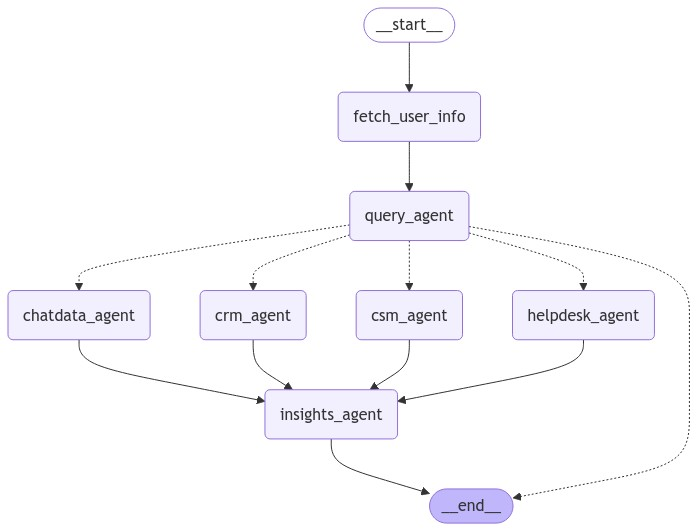
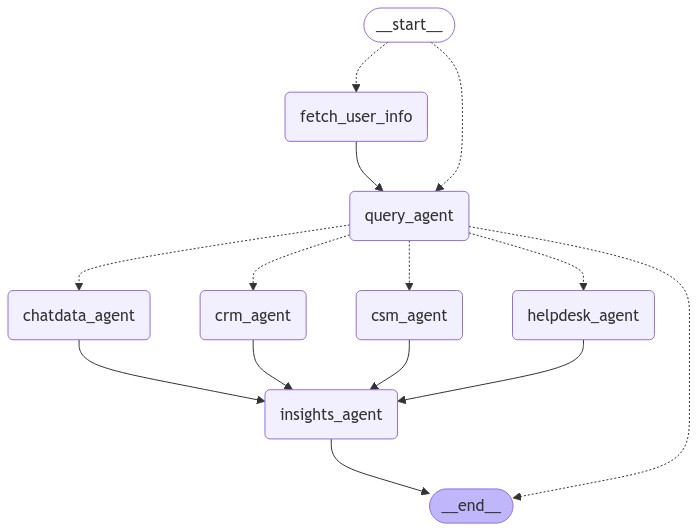
feat: add conditional_entry_point

Changed region(s): [[0.3917, 0.1507, 0.693, 0.2712], [0.5725, 0.1507, 0.693, 0.1808], [0.5725, 0.3315, 0.6026, 0.3616]]

diff --git a/agents.py b/agents.py
@@ -52,8 +52,16 @@ def query_agent(state: AgentStateGraph):
 
 
 def crm_agent(state: AgentStateGraph):
-    crm_agent_tools = []
-    crm_llm_with_tools = llm.bind_tools(crm_agent_tools)
+    # Append a tool message to the last route from query agent
+    last_tool_call_id = state["messages"][-1].tool_calls[0]["id"]
+    query_route_tool_message = ToolMessage(
+        tool_call_id=last_tool_call_id,
+        content="The CRM Agent will now look for necessary information",
+    )
+    state["messages"].append(query_route_tool_message)
+
+    # crm_agent_tools = []
+    crm_llm_with_tools = llm
 
     crm_agent_runnable = crm_agent_prompt_template | crm_llm_with_tools
 
@@ -82,8 +90,15 @@ def csm_agent(state: AgentStateGraph):
 
 
 def helpdesk_agent(state: AgentStateGraph):
+    # Append a tool message to the last route from query agent
+    last_tool_call_id = state["messages"][-1].tool_calls[0]["id"]
+    query_route_tool_message = ToolMessage(
+        tool_call_id=last_tool_call_id,
+        content="The Help Desk Agent will now look for necessary information",
+    )
+    state["messages"].append(query_route_tool_message)
     # helpdesk_agent_tools = []
-    helpdesk_llm_with_tools = llm.bind_tools()
+    helpdesk_llm_with_tools = llm
 
     helpdesk_agent_runnable = helpdesk_agent_prompt_template | helpdesk_llm_with_tools
 
@@ -93,8 +108,16 @@ def helpdesk_agent(state: AgentStateGraph):
 
 
 def chatdata_agent(state: AgentStateGraph):
+    # Append a tool message to the last route from query agent
+    last_tool_call_id = state["messages"][-1].tool_calls[0]["id"]
+    query_route_tool_message = ToolMessage(
+        tool_call_id=last_tool_call_id,
+        content="The Chat Data Agent will now look for necessary information",
+    )
+    state["messages"].append(query_route_tool_message)
+
     # chatdata_agent_tools = []
-    chatdata_llm_with_tools = llm.bind_tools()
+    chatdata_llm_with_tools = llm
 
     chatdata_agent_runnable = chatdata_agent_prompt_template | chatdata_llm_with_tools
 

diff --git a/prompts.py b/prompts.py
@@ -40,6 +40,8 @@ You are the **CRM Agent** in a Customer Insights AI System. Your responsibility 
 1. **Analyze Context:** Review the context or keywords provided by the Query Agent.
 2. **Retrieve Information:** Access relevant CRM data such as customer profiles, sales history, contact information, and related metrics.
 3. **Provide Clear Response:** Present the information in a clear and concise manner, directly addressing the user's needs.
+
+Provide fake response for now.
         """,
         ),
         ("placeholder", "{messages}"),
@@ -79,6 +81,7 @@ You are the **Helpdesk Agent** in a Customer Insights AI System. Your responsibi
 2. **Retrieve Information:** Access relevant helpdesk data such as support ticket details, issue types, statuses, response times, resolution rates, and agent performance metrics.
 3. **Provide Clear Response:** Present the information in a clear and concise manner, directly addressing the user's needs.
 
+Provide fake response for now.
 """,
         ),
         ("placeholder", "{messages}"),
@@ -98,6 +101,8 @@ chatdata_agent_prompt_template = ChatPromptTemplate.from_messages(
 1. **Analyze Context:** Review the context or keywords provided by the Query Agent.
 2. **Retrieve Information:** Access relevant chat history data, including conversation transcripts, sentiment analysis, and issue categorization.
 3. **Provide Clear Response:** Summarize the findings in a coherent and concise manner, addressing the user's specific interests.
+
+Provide fake response for now.
 """,
         ),
         ("placeholder", "{messages}"),
@@ -125,8 +130,10 @@ insights_agent_prompt_template = ChatPromptTemplate.from_messages(
 
 Provide the integrated insights with the only responses you have.
 Do not mention the agents' names.
+
+Current time: {time}
 """,
         ),
         ("placeholder", "{messages}"),
     ]
-)
+).partial(time=datetime.now())

diff --git a/graph.py b/graph.py
@@ -14,6 +14,13 @@ from agents import (
 )
 
 
+def route_entry_point(state: AgentStateGraph):
+    if "user_info" in state:
+        return "query_agent"
+    else:
+        return "fetch_user_info"
+
+
 def route_query_agent(state: AgentStateGraph):
     last_message = state["messages"][-1]
     if not last_message.tool_calls:
@@ -39,7 +46,12 @@ def create_graph():
     graph_builder.add_node("chatdata_agent", chatdata_agent)
     graph_builder.add_node("insights_agent", insights_agent)
 
-    graph_builder.add_edge(START, "fetch_user_info")
+    # graph_builder.add_edge(START, "fetch_user_info")
+    # graph_builder.set_entry_point("query_agent")
+    graph_builder.set_conditional_entry_point(
+        route_entry_point,
+        {"fetch_user_info": "fetch_user_info", "query_agent": "query_agent"},
+    )
     graph_builder.add_edge("fetch_user_info", "query_agent")
     graph_builder.add_conditional_edges(
         "query_agent",
